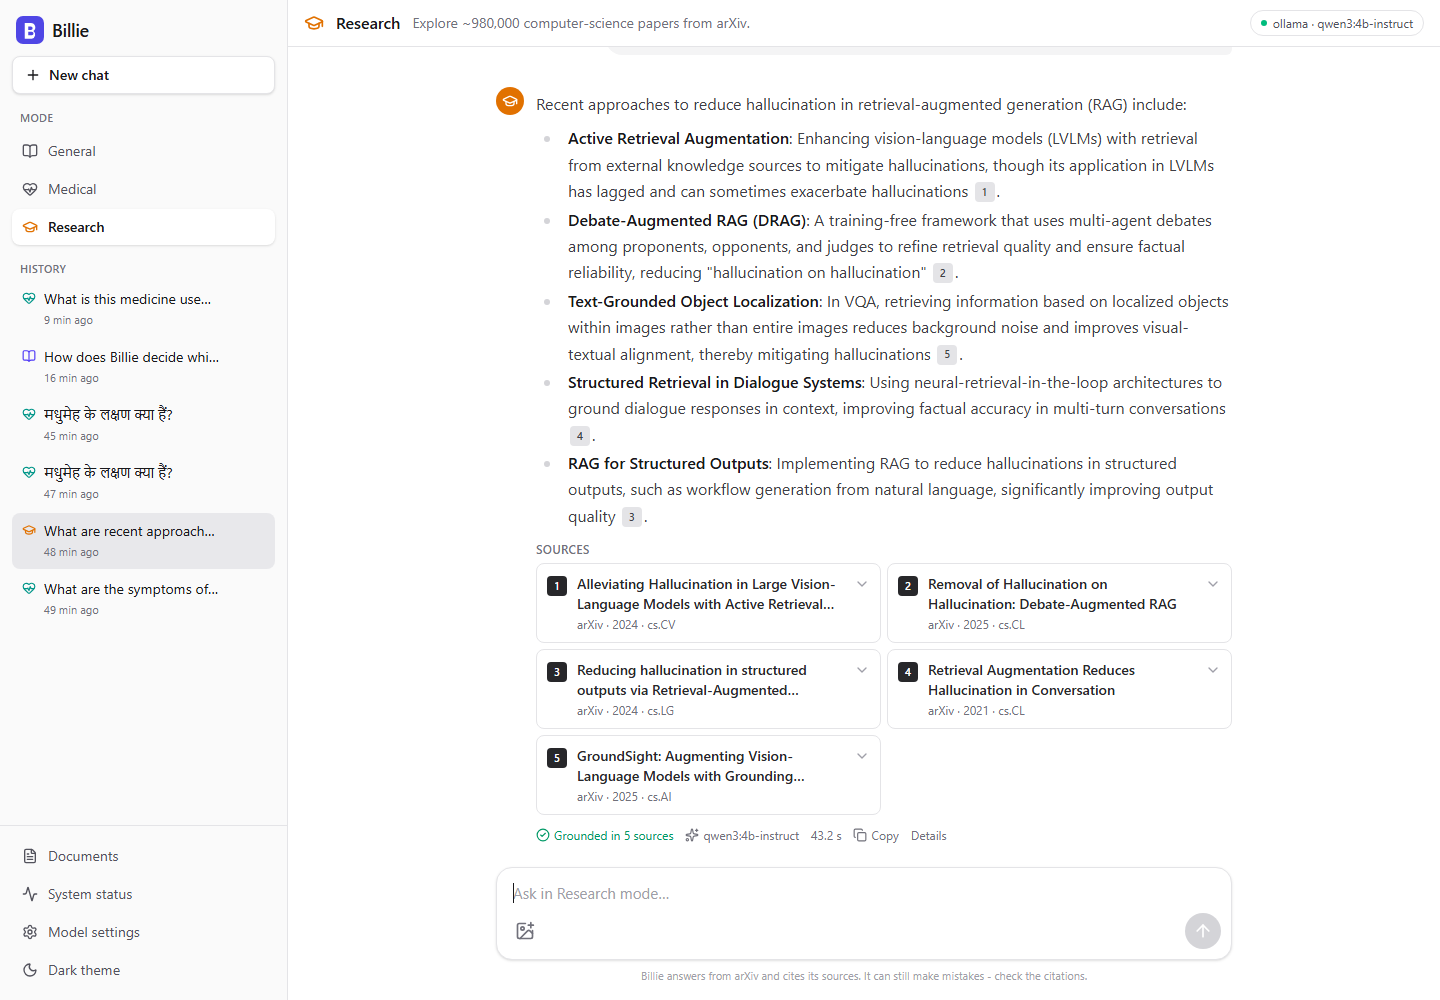
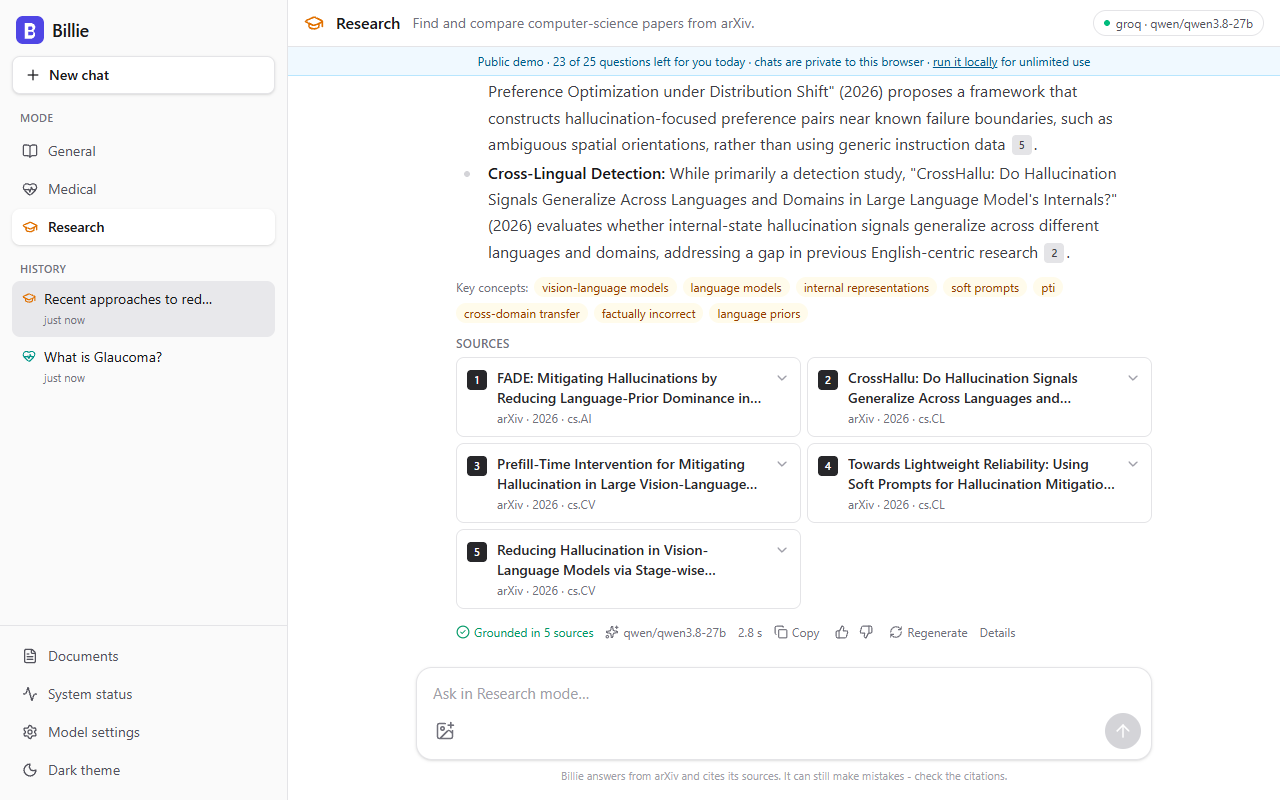
Refresh README media from the live demo
- New demo GIF: coverage card, typing suggestions, cited answer
- Screenshots: mode guide, research answer, answer from an uploaded PDF
- frontend/e2e/readme-media.mjs captures them (replaces record-demo.mjs)

diff --git a/scripts/make_demo_gif.py b/scripts/make_demo_gif.py
@@ -1,35 +1,35 @@
-"""Assemble demo frames (PNG) into a compact README GIF.
-
-    python scripts/make_demo_gif.py <frames-dir> docs/images/demo.gif
-
-Downscales, drops near-identical consecutive frames (the long "thinking" pause on a CPU),
-and holds the last frame so viewers can read the answer.
-"""
-
-from __future__ import annotations
-
-import sys
-from pathlib import Path
-
-from PIL import Image, ImageChops
-
-
-def main(frames_dir: str, out_path: str, width: int = 960, frame_ms: int = 220) -> None:
-    paths = sorted(Path(frames_dir).glob("*.png"))
-    frames: list[Image.Image] = []
-    for path in paths:
-        img = Image.open(path).convert("RGB")
-        img = img.resize((width, round(img.height * width / img.width)), Image.LANCZOS)
-        if frames and ImageChops.difference(img, frames[-1]).getbbox() is None:
-            continue  # identical to the previous frame
-        frames.append(img)
-    palette = [f.quantize(colors=128, method=Image.Quantize.MEDIANCUT) for f in frames]
-    durations = [frame_ms] * len(palette)
-    durations[-1] = 4000
-    palette[0].save(out_path, save_all=True, append_images=palette[1:], duration=durations, loop=0, optimize=True)
-    size_mb = Path(out_path).stat().st_size / 1e6
-    print(f"{len(palette)} frames (from {len(paths)}) -> {out_path} ({size_mb:.1f} MB)")
-
-
-if __name__ == "__main__":
-    main(*sys.argv[1:3])
+ Then:                 python ../scripts/make_demo_gif.py <frames-dir> ../docs/images/demo.gif"""Assemble demo frames (PNG) into a compact README GIF.
+ Then:                 python ../scripts/make_demo_gif.py <frames-dir> ../docs/images/demo.gif
+ Then:                 python ../scripts/make_demo_gif.py <frames-dir> ../docs/images/demo.gif    python scripts/make_demo_gif.py <frames-dir> docs/images/demo.gif
+ Then:                 python ../scripts/make_demo_gif.py <frames-dir> ../docs/images/demo.gif
+ Then:                 python ../scripts/make_demo_gif.py <frames-dir> ../docs/images/demo.gifDownscales, drops near-identical consecutive frames (the long "thinking" pause on a CPU),
+ Then:                 python ../scripts/make_demo_gif.py <frames-dir> ../docs/images/demo.gifand holds the last frame so viewers can read the answer.
+ Then:                 python ../scripts/make_demo_gif.py <frames-dir> ../docs/images/demo.gif"""
+ Then:                 python ../scripts/make_demo_gif.py <frames-dir> ../docs/images/demo.gif
+ Then:                 python ../scripts/make_demo_gif.py <frames-dir> ../docs/images/demo.giffrom __future__ import annotations
+ Then:                 python ../scripts/make_demo_gif.py <frames-dir> ../docs/images/demo.gif
+ Then:                 python ../scripts/make_demo_gif.py <frames-dir> ../docs/images/demo.gifimport sys
+ Then:                 python ../scripts/make_demo_gif.py <frames-dir> ../docs/images/demo.giffrom pathlib import Path
+ Then:                 python ../scripts/make_demo_gif.py <frames-dir> ../docs/images/demo.gif
+ Then:                 python ../scripts/make_demo_gif.py <frames-dir> ../docs/images/demo.giffrom PIL import Image, ImageChops
+ Then:                 python ../scripts/make_demo_gif.py <frames-dir> ../docs/images/demo.gif
+ Then:                 python ../scripts/make_demo_gif.py <frames-dir> ../docs/images/demo.gif
+ Then:                 python ../scripts/make_demo_gif.py <frames-dir> ../docs/images/demo.gifdef main(frames_dir: str, out_path: str, width: int = 960, frame_ms: int = 220) -> None:
+ Then:                 python ../scripts/make_demo_gif.py <frames-dir> ../docs/images/demo.gif    paths = sorted(Path(frames_dir).glob("*.png"))
+ Then:                 python ../scripts/make_demo_gif.py <frames-dir> ../docs/images/demo.gif    frames: list[Image.Image] = []
+ Then:                 python ../scripts/make_demo_gif.py <frames-dir> ../docs/images/demo.gif    for path in paths:
+ Then:                 python ../scripts/make_demo_gif.py <frames-dir> ../docs/images/demo.gif        img = Image.open(path).convert("RGB")
+ Then:                 python ../scripts/make_demo_gif.py <frames-dir> ../docs/images/demo.gif        img = img.resize((width, round(img.height * width / img.width)), Image.LANCZOS)
+ Then:                 python ../scripts/make_demo_gif.py <frames-dir> ../docs/images/demo.gif        if frames and ImageChops.difference(img, frames[-1]).getbbox() is None:
+ Then:                 python ../scripts/make_demo_gif.py <frames-dir> ../docs/images/demo.gif            continue  # identical to the previous frame
+ Then:                 python ../scripts/make_demo_gif.py <frames-dir> ../docs/images/demo.gif        frames.append(img)
+ Then:                 python ../scripts/make_demo_gif.py <frames-dir> ../docs/images/demo.gif    palette = [f.quantize(colors=128, method=Image.Quantize.MEDIANCUT) for f in frames]
+ Then:                 python ../scripts/make_demo_gif.py <frames-dir> ../docs/images/demo.gif    durations = [frame_ms] * len(palette)
+ Then:                 python ../scripts/make_demo_gif.py <frames-dir> ../docs/images/demo.gif    durations[-1] = 4000
+ Then:                 python ../scripts/make_demo_gif.py <frames-dir> ../docs/images/demo.gif    palette[0].save(out_path, save_all=True, append_images=palette[1:], duration=durations, loop=0, optimize=True)
+ Then:                 python ../scripts/make_demo_gif.py <frames-dir> ../docs/images/demo.gif    size_mb = Path(out_path).stat().st_size / 1e6
+ Then:                 python ../scripts/make_demo_gif.py <frames-dir> ../docs/images/demo.gif    print(f"{len(palette)} frames (from {len(paths)}) -> {out_path} ({size_mb:.1f} MB)")
+ Then:                 python ../scripts/make_demo_gif.py <frames-dir> ../docs/images/demo.gif
+ Then:                 python ../scripts/make_demo_gif.py <frames-dir> ../docs/images/demo.gif
+ Then:                 python ../scripts/make_demo_gif.py <frames-dir> ../docs/images/demo.gifif __name__ == "__main__":
+ Then:                 python ../scripts/make_demo_gif.py <frames-dir> ../docs/images/demo.gif    main(*sys.argv[1:3])

diff --git a/README.md b/README.md
@@ -4,7 +4,7 @@
 
 **Live demo: [billie.kindwater-b6a0b879.uaenorth.azurecontainerapps.io](https://billie.kindwater-b6a0b879.uaenorth.azurecontainerapps.io)**. Each visitor gets a daily question limit, and chats are private to the browser. If nobody has used it recently, the first visit takes about a minute while the server starts.
 
-![Billie: a medical question streams into a cited answer, with the emergency banner and source cards](docs/images/demo.gif)
+![Billie: Medical mode shows what it contains, typing suggests real questions from the index, and the answer streams in with citations](docs/images/demo.gif)
 
 | Mode | Corpus | What you can ask |
 |---|---|---|
@@ -30,6 +30,12 @@
 - **Fast where it can be on a CPU.** Repeated questions come from an answer cache in ~0.1 s; models are pre-loaded at startup; duplicate passages are removed so every source slot adds information; **Stop** really stops the local model.
 - **Feedback loop.** 👍/👎 on every answer (a 👎 also evicts it from the cache), regenerate, edit-and-resend, and conversation deep links.
 - **Production habits.** Streaming SSE API, SQLite conversation history, structured JSON logs with request IDs, Prometheus metrics, rate limiting, CSP headers, fail-closed auth in production, validated uploads, a prompt-injection guard, atomic and resumable index builds, Docker, and CI with lint, type checks and tests.
+
+## Screenshots
+
+| Each mode says what it contains | Ask about your own document (private, 1 hour) |
+|---|---|
+| ![Research mode coverage card: paper count, years, biggest areas, good for / not covered, and examples](docs/images/mode-guide.png) | ![A question about an uploaded PDF answered with citations to "Your document"](docs/images/private-docs.png) |
 
 ## Quick start (Windows, macOS, Linux)
 

diff --git a/docs/DEVLOG.md b/docs/DEVLOG.md
@@ -641,6 +641,15 @@ The test file was removed afterwards.
 
 **Minor open item:** a mostly-English Hinglish request ("Riverton annual report ka saransh batao") is detected as English, so it's answered in English.
 
+### P2.23 New README media from the live site (2026-11-25)
+The README GIF and screenshots predated the mode guide, suggestions, private documents and citation repair. `frontend/e2e/readme-media.mjs` (it replaces `record-demo.mjs`) drives the **live demo** in Edge and captures:
+- **`demo.gif`** (23 frames, 0.6 MB): the Medical coverage card → typing "glauco" shows real MedQuAD questions → "What is Glaucoma?" streams in grounded in 3 sources (1.9 s) → a citation highlights its source card.
+- **`mode-guide.png`:** Research mode's coverage card.
+- **`research.png`:** a cited answer with 5 papers from 2026, in 2.8 s.
+- **`private-docs.png`:** an uploaded 22-page PDF answered with "Roads… 2,115 crore rupees [1]", all sources "Your document", in 0.9 s. The script removes the uploaded file afterwards.
+
+The two outdated screenshots (`empty-state.png`, `medical-hindi.png`) were removed. The capture used 3 Groq questions.
+
 ---
 
 ## Remaining backlog (updated 2026-11-25, end of P2.22)
